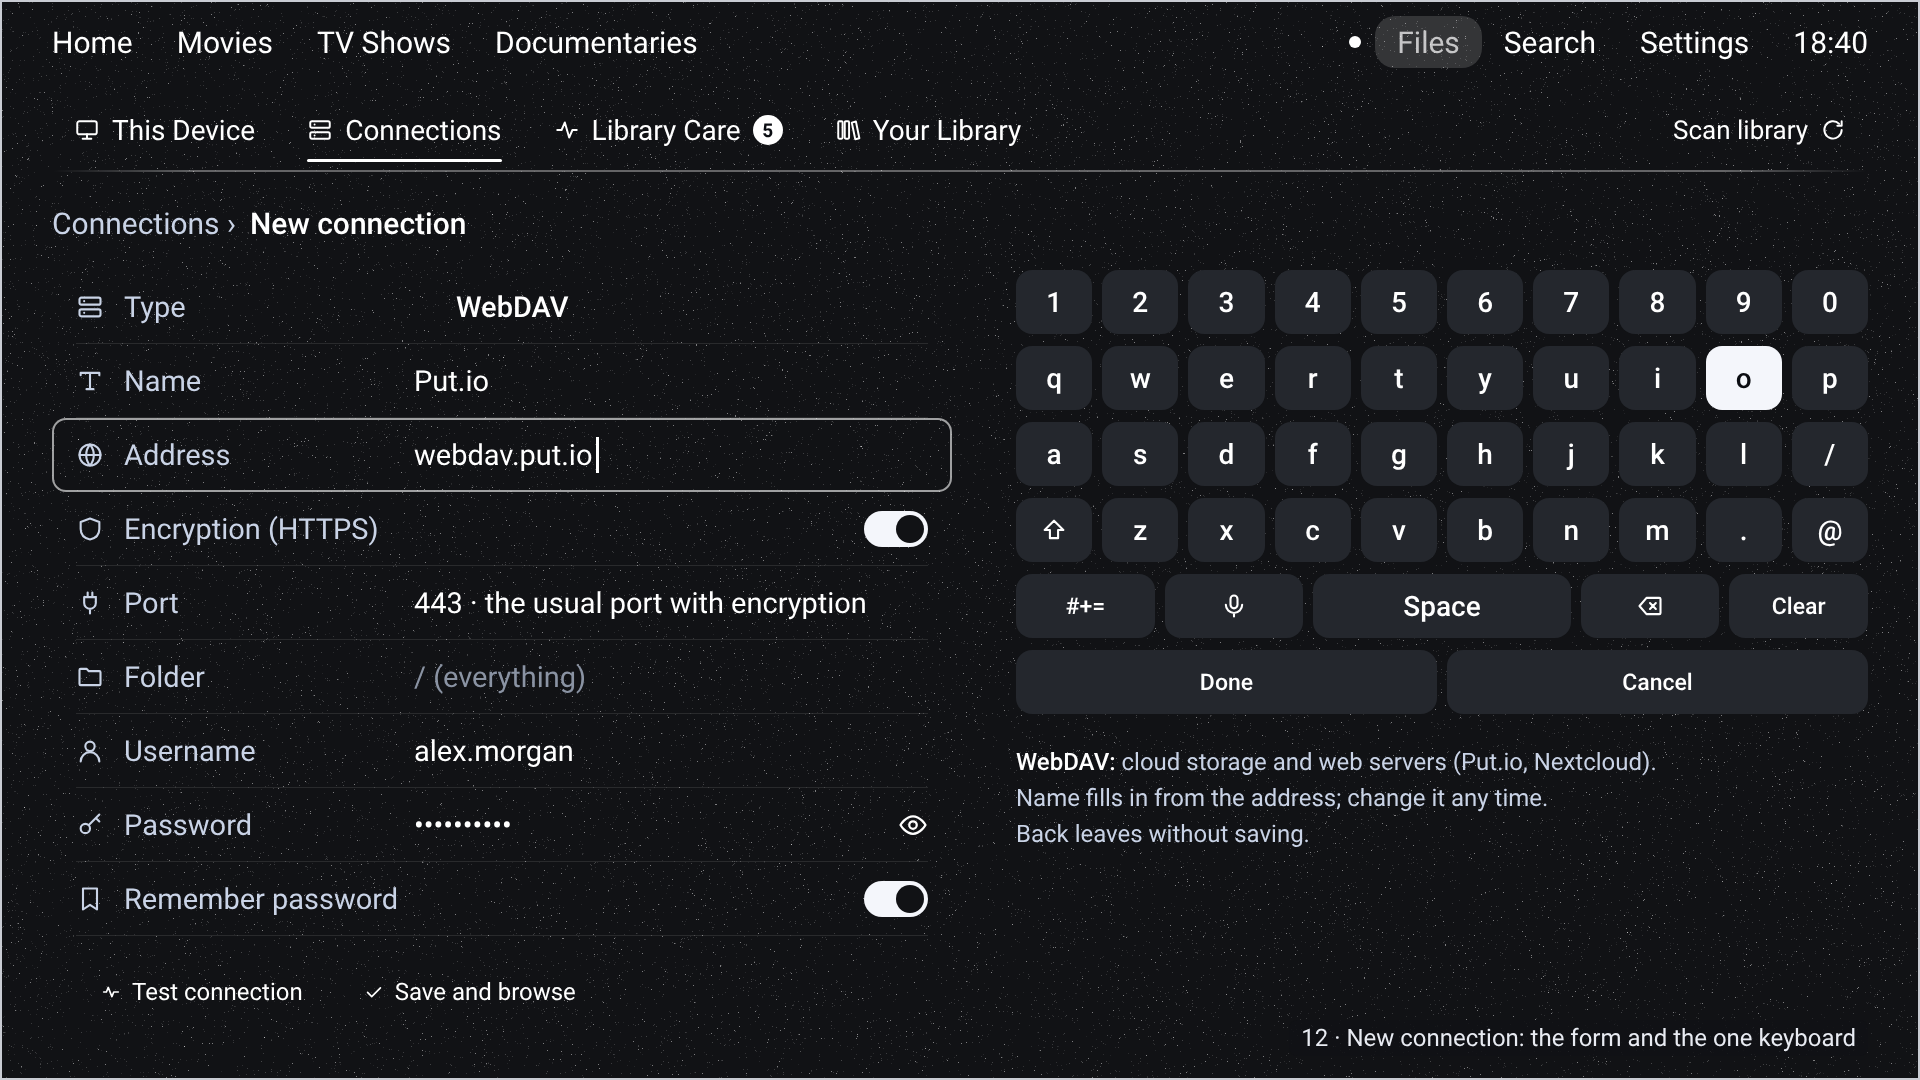
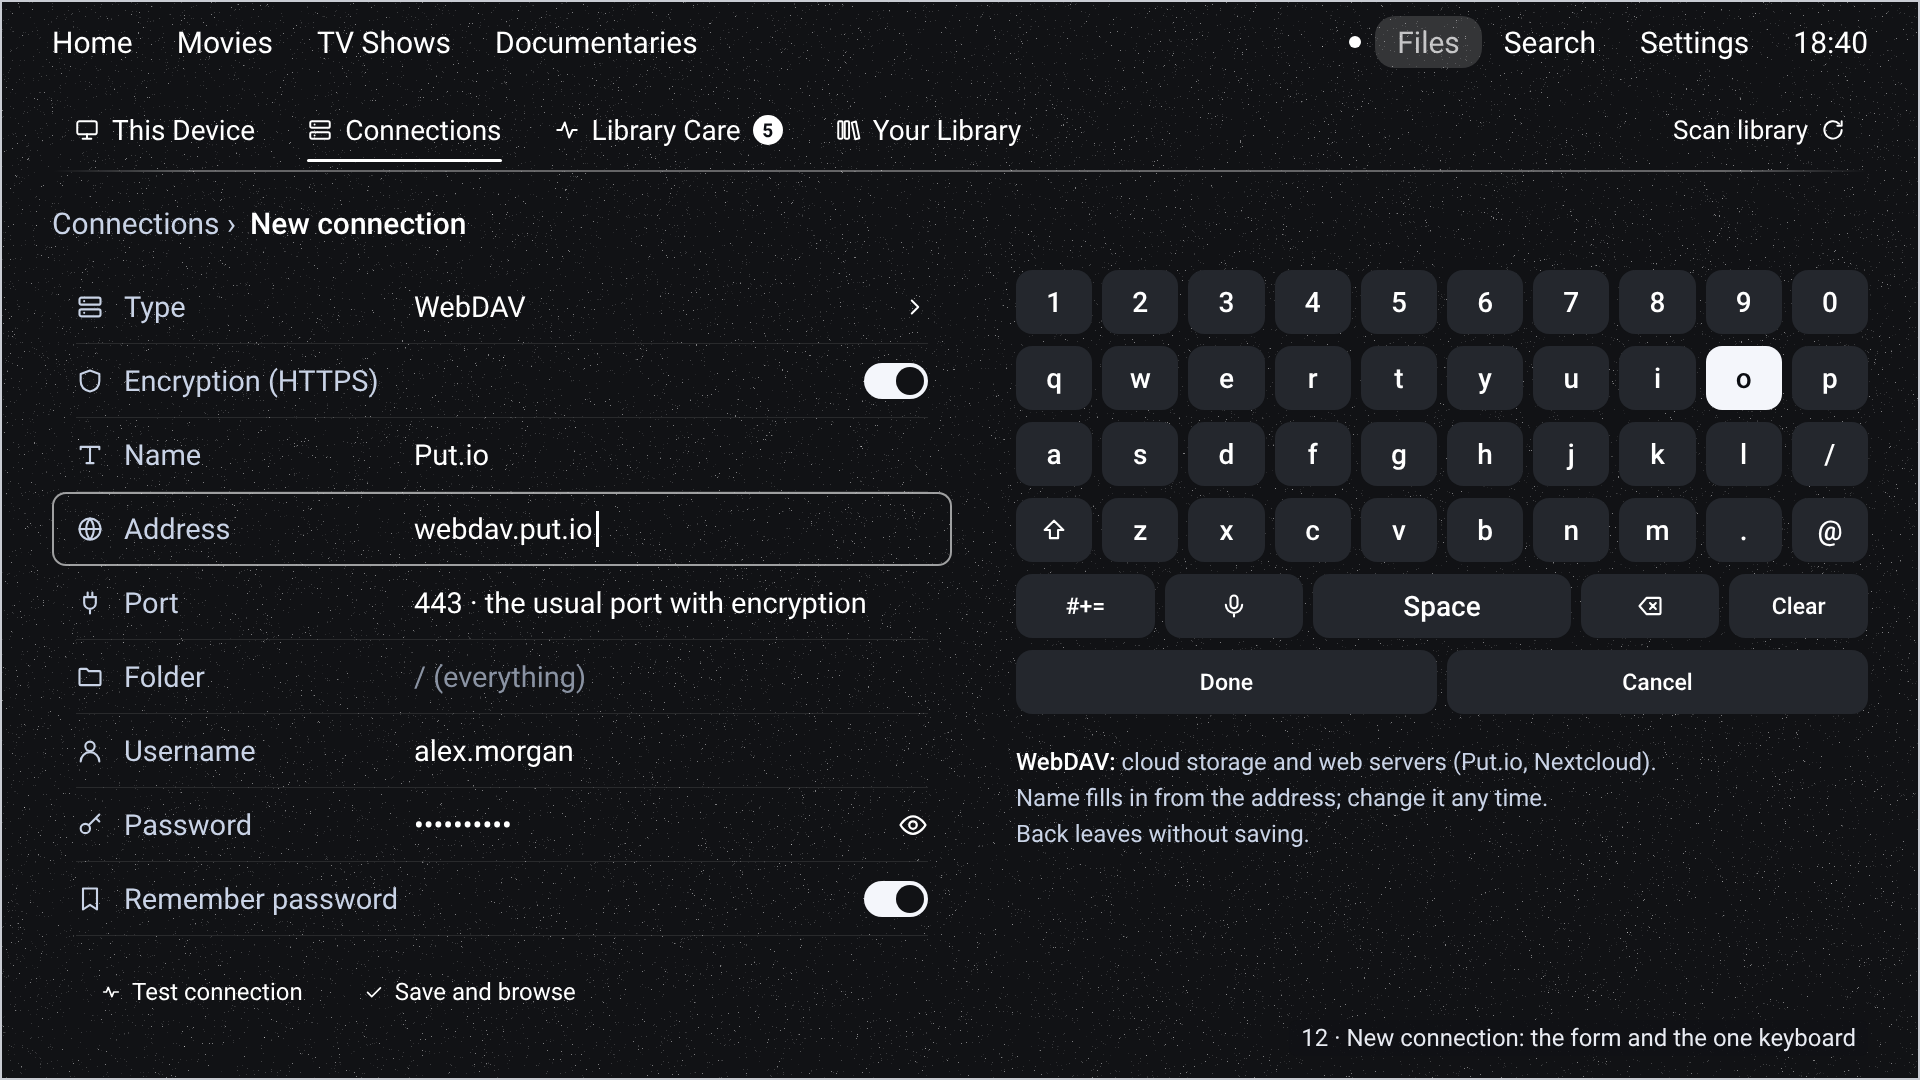
Files: Type as a short menu with explanations; Encryption always under it, greyed with a reason (tv/12, 12b, 12c, 13)
Claude-Session: https://claude.ai/code/session_01FtDZqaZxaJsrpkomFZALKV

diff --git a/docs/design/proposals/files-v2/render.js b/docs/design/proposals/files-v2/render.js
@@ -423,6 +423,7 @@ const css2 = `
 .sw:after{content:'';position:absolute;right:4px;top:4px;width:28px;height:28px;border-radius:14px;background:#111215}
 .sw.off{background:rgba(255,255,255,.22)}
 .sw.off:after{left:4px;right:auto;background:#c9d3e6}
+.fr2.dis{opacity:.4}
 .fr2.on .sw,.sw.swf{background:#0b0d12}
 .fr2.on .sw:after,.sw.swf:after{background:#fff}
 .step{display:flex;align-items:center;gap:14px;font-weight:500}
@@ -559,6 +560,7 @@ const FI = {
   Username: '<circle cx="12" cy="8" r="4"/><path d="M4 21a8 8 0 0 1 16 0"/>', Password: I.key,
   'Remember password': '<path d="M6 3h12v18l-6-4-6 4z"/>',
 };
+FI.Encryption = FI['Encryption (HTTPS)'];
 
 // field: [label, value, kind] kind: 'typing' | 'on' | 'ph' | 'sw' | 'swoff' | 'step' | 'pw'
 function field([lb, vl, kind, on]) {
@@ -574,6 +576,11 @@ function field([lb, vl, kind, on]) {
     v = `${vl}<i class="caret"></i>`;
   } else if (kind === 'sw' || kind === 'swoff') {
     v = `<span style="flex:1"></span><span class="sw${kind === 'swoff' ? ' off' : ''}"></span>`;
+  } else if (kind === 'menu') {
+    v = `<span style="flex:1">${vl}</span>${svg(I.chev, 26)}`;
+  } else if (kind === 'dis') {
+    cls.push('dis');
+    v = `<span style="flex:1">${vl}</span><span class="sw"></span>`;
   } else if (kind === 'step') {
     v = `<span class="step"><i>‹</i>${vl}<i>›</i></span>`;
   } else if (kind === 'pw') {
@@ -589,8 +596,8 @@ function formCrumb(t) {
 }
 
 function f12() {
-  const fields = [['Type', 'WebDAV', 'step'], ['Name', 'Put.io', ''], ['Address', 'webdav.put.io', 'typing'],
-    ['Encryption (HTTPS)', 'On', 'sw'], ['Port', '443 · the usual port with encryption', ''],
+  const fields = [['Type', 'WebDAV', 'menu'], ['Encryption (HTTPS)', 'On', 'sw'], ['Name', 'Put.io', ''],
+    ['Address', 'webdav.put.io', 'typing'], ['Port', '443 · the usual port with encryption', ''],
     ['Folder', '/ (everything)', 'ph'], ['Username', 'alex.morgan', ''], ['Password', '••••••••••', 'pw'],
     ['Remember password', 'On', 'sw']];
   return bar() + tabs('Connections', null) + formCrumb('New connection')
@@ -602,21 +609,41 @@ function f12() {
 }
 
 function f12b() {
-  const fields = [['Type', 'SFTP', 'step', true], ['Name', 'Home server', ''], ['Address', 'home.example.net', ''],
+  const fields = [['Type', 'SFTP', 'menu'], ['Encryption', 'Always on with SFTP', 'dis'], ['Name', 'Home server', ''],
+    ['Address', 'home.example.net', 'typing'],
     ['Port', '22 · the usual port for SFTP', ''], ['Folder', '/ (everything)', 'ph'], ['Username', 'alex', ''],
     ['Password', '••••••••', 'pw'], ['Remember password', 'On', 'sw']];
   return bar() + tabs('Connections', null) + formCrumb('New connection')
     + `<div class="form">${fields.map(field).join('')}<div class="fbtns"><span>${svg(I.test, 22)}Test connection</span>
     <span>${svg(I.ok, 22)}Save and browse</span></div></div>`
-    + keyboard('', '<b>SFTP:</b> folders on a computer or server you can sign in to over SSH.<br>Left / Right on Type: '
-      + 'SMB · WebDAV · SFTP · FTP; the fields change to suit.')
-    + '<div class="cap2">12b · Type focused: Left / Right step SMB · WebDAV · SFTP · FTP</div>';
+    + keyboard('e', '<b>SFTP:</b> folders on a computer or server you can sign in to over SSH.<br>Encryption is greyed: '
+      + 'SFTP is always encrypted. Focus skips it.')
+    + '<div class="cap2">12b · SFTP chosen: Encryption stays in place, greyed, saying why</div>';
+}
+
+function f12c() {
+  const fields = [['Type', 'WebDAV', 'menu'], ['Encryption (HTTPS)', 'On', 'sw'], ['Name', 'Put.io', ''],
+    ['Address', 'webdav.put.io', ''], ['Port', '443 · the usual port with encryption', ''],
+    ['Folder', '/ (everything)', 'ph'], ['Username', 'alex.morgan', ''], ['Password', '••••••••••', 'pw'],
+    ['Remember password', 'On', 'sw']];
+  const T = [['SMB', 'Shared folders on a Windows PC, Mac or NAS', I.smb], ['WebDAV', 'Cloud storage and web servers (Put.io, Nextcloud)', I.cloud, 'tick'],
+    ['SFTP', 'A computer or server you sign in to over SSH', I.server, 'focus'], ['FTP', 'Older file servers; FTPS when encrypted', I.nas]];
+  const menu = `<div class="menu" style="left:52px;top:350px;width:900px">${T.map(([n, l, ic, st]) => `<div class="it${st === 'focus'
+    ? ' f' : ''}" style="height:84px">${svg(ic, 28)}<span style="display:flex;flex-direction:column;gap:2px">${n}
+    <small style="font-size:21px;color:${st === 'focus' ? '#3a4256' : '#c9d3e6'}">${l}</small></span>
+    <span class="tk"${st === 'tick' ? '' : ' style="visibility:hidden"'}>${svg(I.tick, 24)}</span></div>`).join('')}</div>`;
+  return bar() + tabs('Connections', null) + formCrumb('New connection')
+    + `<div class="form">${fields.map(field).join('')}</div>` + menu
+    + keyboard('', '<b>Type</b> reshapes the form: each kind asks only for what it needs.<br>Back closes the menu.')
+    + '<div class="cap2">12c · OK on Type: the four kinds, the current one ticked</div>';
 }
 
 function f13() {
-  const fields = [['Type', 'SMB', 'step'], ['Name', 'Living-room NAS (Synology DS920+ in the cupboard)', ''],
+  const fields = [['Type', 'SMB', 'menu'], ['Encryption', 'Set by the server', 'dis'],
+    ['Name', 'Living-room NAS (Synology DS920+ in the cupboard)', ''],
     ['Address', 'nas.local', ''], ['Folders', 'Movies · TV Shows · Documentaries', ''],
     ['Username', 'media', ''], ['Password', '••••••••', 'pw'], ['Remember password', 'On', 'sw']];
+  // SMB: no port row (standard port)
   return bar() + tabs('Connections', null) + formCrumb('Edit · Living-room NAS')
     + `<div class="form">${fields.map(field).join('')}<div class="fbtns"><span class="f">${svg(I.test, 22)}Test connection
     </span><span>${svg(I.ok, 22)}Save</span></div><div class="fres">${svg(I.ok, 24)}Connected · 3 shared folders found
@@ -781,7 +808,7 @@ function f21() {
 }
 
 const ROUND23 = [['09-connections', f09, 1380], ['10-test-failed', f10], ['11-remove-undo', f11],
-  ['12-new-connection', f12], ['12b-type-stepper', f12b], ['13-edit-connection', f13], ['14-sign-in-found', f14], ['15-network-options', f15, 1380],
+  ['12-new-connection', f12], ['12c-type-menu', f12c], ['12b-sftp-encryption-greyed', f12b], ['13-edit-connection', f13], ['14-sign-in-found', f14], ['15-network-options', f15, 1380],
   ['16-library-care', f16, 1900], ['17-to-fix', f17], ['18-fix-match-file', f18], ['19-excluded-from-hero', f19],
   ['20-missing-files', f20], ['21-scan-one-source', f21, 1900]];
 

diff --git a/docs/design/pages/FILES.md b/docs/design/pages/FILES.md
@@ -121,8 +121,13 @@ keyboard, the three-panel browser (Locations · list · Information), the old Li
 
 **Round 2 notes (owner, 26 Nov; redrawn `tv/09`, `12`, `12b`, `13`):**
 - Long names stop well short of the pill: a clear 40 px gap before the pill column ("…" earlier).
-- **Type is a stepper, no menu** (RULES §8, four choices): Left / Right on the Type row step SMB · WebDAV · SFTP · FTP; the
-  fields below change at once; ‹ › show only while the row is focused (`tv/12b`).
+- **Type is a short menu (owner, 26 Nov; an exception to RULES §8 because each kind needs a line of explanation):** OK on
+  Type (value and ›) opens the four kinds under the row, each with its second line, the current one ticked (`tv/12c`):
+  SMB "Shared folders on a Windows PC, Mac or NAS" · WebDAV "Cloud storage and web servers" · SFTP "A computer or server
+  you sign in to over SSH" · FTP "Older file servers; FTPS when encrypted". Back closes it.
+- **Encryption sits straight under Type, always (owner, 26 Nov):** a switch for WebDAV (HTTPS) and FTP (FTPS), on by
+  default; **greyed** for the others, saying why: "Always on with SFTP", "Set by the server" (SMB); focus skips it while
+  greyed (`tv/12b`, `tv/13`). Rows never jump when the type changes.
 - **Form rows get icons** (Claude, as every other row in the app): Type, Name, Address, Encryption, Port, Folder(s),
   Username, Password, Remember password.
 - Form height follows the type (WebDAV nine rows, SMB seven: no encryption switch, standard port); the buttons sit
